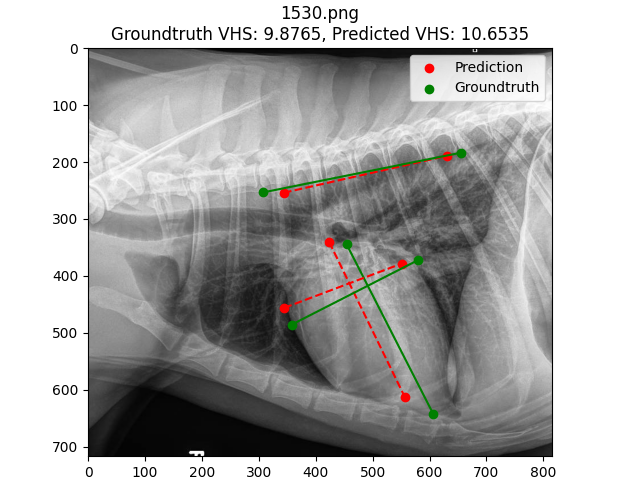
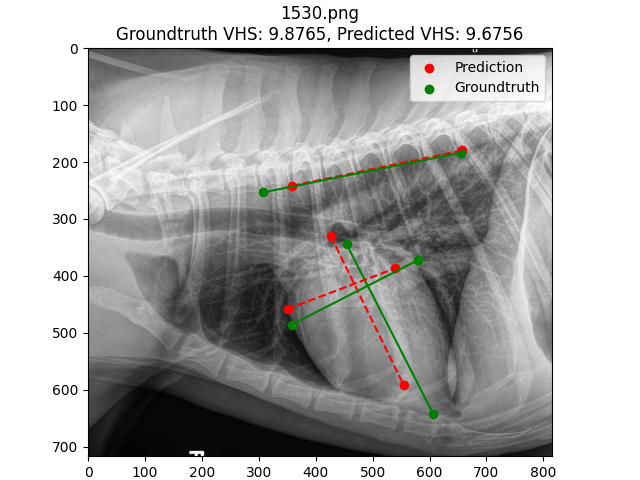
reconfig model

diff --git a/wokers.py b/wokers.py
@@ -11,7 +11,6 @@ from torch.optim import Optimizer
 
 from utils import Accumulator, EarlyStopping, Timer, Logger, CheckPointSaver
 from datasets import LabeledDogHeartDataset, UnlabeledDogHeartDataset
-from losses import AggregateLoss
 from functional import plot_predictions, compute_vhs
 
 
@@ -24,7 +23,6 @@ class Trainer:
         train_dataset: Dataset,
         val_dataset: Dataset,
         optimizer: Optimizer,
-        loss_alpha: float,
         train_batch_size: int,
         val_batch_size: int,
         device: torch.device,
@@ -33,14 +31,13 @@ class Trainer:
         self.train_dataset = train_dataset
         self.val_dataset = val_dataset
         self.optimizer = optimizer
-        self.loss_alpha = loss_alpha
         self.train_batch_size = train_batch_size
         self.val_batch_size = val_batch_size
         self.device = device
 
         self.train_dataloader = DataLoader(dataset=train_dataset, batch_size=train_batch_size, shuffle=True)
         self.val_dataloader = DataLoader(dataset=val_dataset, batch_size=val_batch_size, shuffle=False)
-        self.loss_function = AggregateLoss(alpha=loss_alpha)
+        self.loss_function = nn.MSELoss(reduction='mean')
 
     def train(
         self, 
@@ -61,30 +58,25 @@ class Trainer:
         for epoch in range(1, n_epochs + 1):
             timer.start_epoch(epoch)
             # Loop through each batch
-            for batch, (batch_images, batch_sixpoints, batch_vhs, _, _) in enumerate(self.train_dataloader, start=1):
+            for batch, (batch_images, batch_sixpoints, *_) in enumerate(self.train_dataloader, start=1):
                 timer.start_batch(epoch, batch)
                 batch_images: torch.Tensor = batch_images.to(device=self.device)
                 batch_sixpoints: torch.Tensor = batch_sixpoints.to(device=self.device)
-                batch_vhs: torch.Tensor = batch_vhs.to(device=self.device)
                 self.optimizer.zero_grad()
                 pred_targets: torch.Tensor = self.model(input=batch_images)
                 print(f'gt_targets {batch_sixpoints[-1]}')
                 print(f'pred_targets {pred_targets[-1]}')
-                mse, cross_entropy, loss = self.loss_function(
-                    pred_points=pred_targets, gt_points=batch_sixpoints, gt_vhs=batch_vhs
-                )
+                loss = self.loss_function(input=pred_targets, target=batch_sixpoints)
                 loss.backward()
                 self.optimizer.step()
 
                 # Accumulate the metrics
-                train_metrics.add(mse=mse.item(), cross_entropy=cross_entropy.item(), loss=loss.item())
+                train_metrics.add(loss=loss.item())
                 timer.end_batch(epoch=epoch)
                 logger.log(
                     epoch=epoch, n_epochs=n_epochs, 
                     batch=batch, n_batches=len(self.train_dataloader), 
                     took=timer.time_batch(epoch, batch), 
-                    train_mse=train_metrics['mse'] / batch, 
-                    train_cross_entropy=train_metrics['cross_entropy'] / batch, 
                     train_loss=train_metrics['loss'] / batch, 
                 )
 
@@ -96,18 +88,16 @@ class Trainer:
             train_metrics.reset()
             
             # Evaluate
-            val_mse, val_cross_entropy, val_loss = self.evaluate()
+            val_loss = self.evaluate()
             timer.end_epoch(epoch)
             logger.log(
                 epoch=epoch, n_epochs=n_epochs, 
                 took=timer.time_epoch(epoch), 
-                val_mse=val_mse, 
-                val_cross_entropy=val_cross_entropy, 
                 val_loss=val_loss,
             )
             print('=' * 20)
 
-            early_stopping(val_cross_entropy)
+            early_stopping(val_loss)
             if early_stopping:
                 print('Early Stopped')
                 break
@@ -116,24 +106,21 @@ class Trainer:
         if checkpoint_path:
             checkpoint_saver.save(self.model, filename=f'epoch{epoch}.pt')
 
-    def evaluate(self) -> Tuple[float, float, float]:
+    def evaluate(self) -> float:
         metrics = Accumulator()
         self.model.eval()
         with torch.no_grad():
             # Loop through each batch
-            for batch, (batch_images, batch_sixpoints, batch_vhs, _, _) in enumerate(self.val_dataloader, start=1):
+            for batch, (batch_images, batch_sixpoints, *_) in enumerate(self.val_dataloader, start=1):
                 batch_images: torch.Tensor = batch_images.to(device=self.device)
                 batch_sixpoints: torch.Tensor = batch_sixpoints.to(device=self.device)
-                batch_vhs: torch.Tensor = batch_vhs.to(device=self.device)
                 pred_targets: torch.Tensor = self.model(input=batch_images)
-                mse, cross_entropy, loss = self.loss_function(
-                    pred_points=pred_targets, gt_points=batch_sixpoints, gt_vhs=batch_vhs
-                )
+                loss = self.loss_function(input=pred_targets, target=batch_sixpoints)
                 # Accumulate the metrics
-                metrics.add(val_mse=mse.item(), val_cross_entropy=cross_entropy.item(), val_loss=loss.item())
+                metrics.add(val_loss=loss.item())
 
         # Compute the aggregate metrics
-        return metrics['val_mse'] / batch, metrics['val_cross_entropy'] / batch, metrics['val_loss'] / batch
+        return metrics['val_loss'] / batch
 
 
 class Predictor:

diff --git a/models.py b/models.py
@@ -175,13 +175,13 @@ class VisionTransformer(nn.Module):
         self.encoder = TransformerEncoder(embedding_dim, n_heads, depth, dropout)
         self.orthogonalizer = OrthogonalLayer()
 
-        scale: float = self.patch_embedding.n_patches * embedding_dim
+        scale_pos: float = self.patch_embedding.n_patches * embedding_dim
         self.pos_embedding = nn.Parameter(
-            data=torch.rand(1, self.patch_embedding.n_patches, embedding_dim) / scale
+            data=torch.rand(1, self.patch_embedding.n_patches, embedding_dim) / scale_pos
         )
-        scale: float = self.patch_embedding.n_patches * embedding_dim * self.out_channels
+        scale_mlp: float = self.patch_embedding.n_patches * embedding_dim * self.out_channels
         self.mlp_head = nn.Parameter(
-            data=torch.rand(self.patch_embedding.n_patches, embedding_dim, self.out_channels) / scale
+            data=torch.rand(self.patch_embedding.n_patches, embedding_dim, self.out_channels) / scale_mlp
         )
 
     def forward(self, input: torch.Tensor) -> torch.Tensor:
@@ -192,7 +192,7 @@ class VisionTransformer(nn.Module):
         output: torch.Tensor = output + self.pos_embedding
         output: torch.Tensor = self.encoder(output)
         assert output.shape == (batch_size, self.patch_embedding.n_patches, self.embedding_dim)
-        output: torch.Tensor = torch.sigmoid(torch.einsum('bne,neo->bo', output, self.mlp_head))
+        output: torch.Tensor = F.sigmoid(torch.einsum('bne,neo->bo', output, self.mlp_head))
         output: torch.Tensor = output.reshape(batch_size, 6, 2)
         return self.orthogonalizer(output)
         

diff --git a/losses.py b/losses.py
@@ -17,14 +17,12 @@ class VHSClassificationLoss(nn.Module):
     def forward(self, pred_vhs: torch.Tensor, gt_label: torch.Tensor) -> torch.Tensor:
         assert pred_vhs.shape == gt_label.shape     # (batch_size, 1)
         batch_size: int = pred_vhs.shape[0]
-        epsilon: float = 1e-5
-        scores_0: torch.Tensor = 1. / torch.abs(pred_vhs - 0.).clamp(min=epsilon)
-        scores_1: torch.Tensor = 1. / torch.abs(pred_vhs - (self.threshold1 + self.threshold2) / 2.).clamp(min=epsilon)
-        scores_2: torch.Tensor = 1. / torch.abs(pred_vhs - (self.threshold1 + self.threshold2)).clamp(min=epsilon)
+        midpoint: float = (self.threshold1 + self.threshold2) / 2.
+        delta: float = midpoint - self.threshold1
+        scores_0: torch.Tensor = - torch.abs(pred_vhs - (self.threshold1 - delta))
+        scores_1: torch.Tensor = - torch.abs(pred_vhs - midpoint)
+        scores_2: torch.Tensor = - torch.abs(pred_vhs - (self.threshold2 + delta))
 
-        # scores_0: torch.Tensor = 1. / torch.abs(pred_vhs - (self.threshold1 + 0.) / 2.).clamp(min=epsilon)
-        # scores_1: torch.Tensor = 1. / torch.abs(pred_vhs - (self.threshold1 + self.threshold2) / 2.).clamp(min=epsilon)
-        # scores_2: torch.Tensor = 1. / torch.abs(pred_vhs - (self.threshold2 + 20.) / 2.).clamp(min=epsilon)
         score_matrix: torch.Tensor = torch.cat(tensors=[scores_0, scores_1, scores_2], dim=1)
         assert score_matrix.shape == (batch_size, 3)
         return F.cross_entropy(input=score_matrix, target=gt_label.reshape(-1), reduction='mean')

diff --git a/predict.py b/predict.py
@@ -5,16 +5,16 @@ from datasets import UnlabeledDogHeartDataset, LabeledDogHeartDataset
 from wokers import Predictor
 
 device: torch.device = torch.device('cuda')
-net = torch.load(f='.checkpoints/epoch5.pt')
+net = torch.load(f='.checkpoints/epoch30.pt')
 predictor = Predictor(model=net, device=device)
 
 
 test_dataset = UnlabeledDogHeartDataset(dataroot='Dog_Heart_VHS/test', image_resolution=(512, 512))
 predictor.predict(dataset=test_dataset, need_plots=False)
 
-test_dataset = UnlabeledDogHeartDataset(dataroot='unlabeled_samples', image_resolution=(512, 512))
-predictor.predict(dataset=test_dataset, need_plots=True)
+# test_dataset = UnlabeledDogHeartDataset(dataroot='unlabeled_samples', image_resolution=(512, 512))
+# predictor.predict(dataset=test_dataset, need_plots=True)
 
-test_dataset = LabeledDogHeartDataset(dataroot='labeled_samples', image_resolution=(512, 512))
-predictor.predict(dataset=test_dataset, need_plots=True)
+# test_dataset = LabeledDogHeartDataset(dataroot='labeled_samples', image_resolution=(512, 512))
+# predictor.predict(dataset=test_dataset, need_plots=True)
 

diff --git a/train.py b/train.py
@@ -6,12 +6,12 @@ from models import VisionTransformer
 from wokers import Trainer
 
 device: torch.device = torch.device('cuda')
-learning_rate: float = 1e-7
+learning_rate: float = 1e-6 # 1e-7
 
 net = VisionTransformer(
     in_channels=3, patch_size=32, 
-    embedding_dim=4096, image_size=(512, 512),
-    depth=2, n_heads=32, dropout=0.1,
+    embedding_dim=2048, image_size=(512, 512),
+    depth=6, n_heads=16, dropout=0.1,
 )
 
 train_dataset = LabeledDogHeartDataset(dataroot='Dog_Heart_VHS/train', image_resolution=(512, 512))
@@ -21,13 +21,12 @@ trainer = Trainer(
     model=net, 
     train_dataset=train_dataset, val_dataset=val_dataset, 
     optimizer=Adam(params=net.parameters(), lr=learning_rate),
-    loss_alpha=0.,
-    train_batch_size=8, val_batch_size=4,
-    device=device
+    train_batch_size=32, val_batch_size=4,
+    device=device,
 )
 trainer.train(
     n_epochs=100, 
-    patience=5, tolerance=0., 
+    patience=10, tolerance=0., 
     checkpoint_path='.checkpoints'
 )
 
